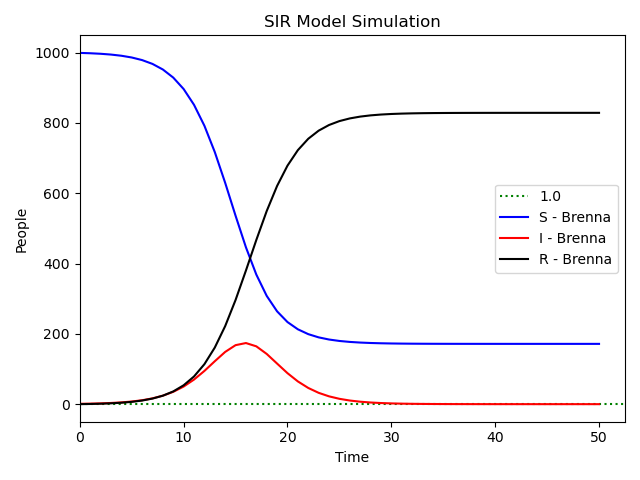
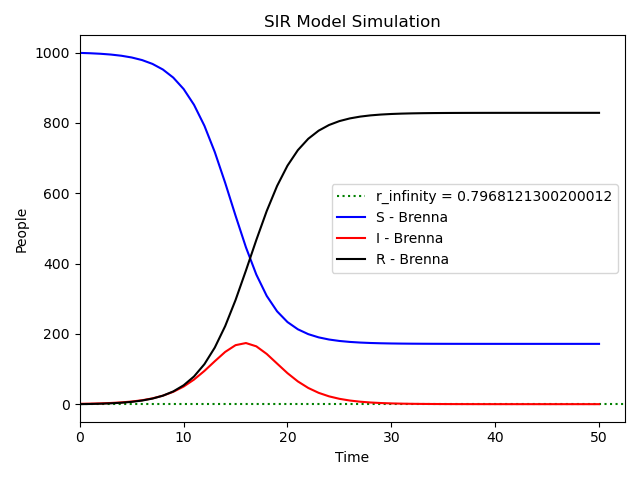
hw1 updates forgot to push

Changed region(s): [[0.5312, 0.375, 0.9688, 0.5625], [0.7812, 0.5312, 0.8125, 0.5625]]

diff --git a/hw1/q4/plot_stability.py b/hw1/q4/plot_stability.py
@@ -1,9 +1,9 @@
 import sys
-import stability
 import argparse
 import matplotlib
 import matplotlib.pyplot as plt
 matplotlib.use('Agg')
+from stability import forward_euler_solver
 
 
 def main():
@@ -34,9 +34,9 @@ def main():
                         required=True)  # Adds argument for gamma value.
     
     parser.add_argument('--N',
-                    type=int,
-                    help='N value',
-                    required=True)  # Adds argument for gamma value.
+                        type=float,
+                        help='N value',
+                        required=True)  # Adds argument for gamma value.
 
     parser.add_argument('--output_file',
                         type=str,
@@ -50,38 +50,40 @@ def main():
     epsilon = 1/args.N
     S = args.N - epsilon
     
-    stable_data = stability.forward_euler_solver(S, args.I, args.stable_R, args.gamma, args.N)
-    unstable_data = stability.forward_euler_solver(S, args.I, args.unstable_R, args.gamma, args.N)
+    stable_data = forward_euler_solver(S, args.I, args.stable_R, args.gamma, args.N)
+    unstable_data = forward_euler_solver(S, args.I, args.unstable_R, args.gamma, args.N)
     
-    stable_s = stable_data[0]
-    stable_i = stable_data[1]
-    stable_r = stable_data[2]
-    time = stable_data[3]
-    
-    unstable_s = unstable_data[0]
-    unstable_i = unstable_data[1]
-    unstable_r = unstable_data[2]
+    stable_s, stable_i, stable_r, time = stable_data
+    unstable_s, unstable_i, unstable_r, _ = unstable_data 
     
     
-    stable_labels = ['S - stable', 'I - stable', 'R - stable',]
-    stable_colors = ['blue', 'red', 'black']
+#     stable_labels = ['S - stable', 'I - stable', 'R - stable',]
+#     stable_colors = ['blue', 'red', 'black']
     
-    unstable_labels = ['S - unstable', 'I - unstable', 'R - unstable' ]
-    unstable_colors = ['green','yellow','pink']
+#     unstable_labels = ['S - unstable', 'I - unstable', 'R - unstable' ]
+#     unstable_colors = ['green','yellow','pink']
         
-    fig, ax = plt.subplots()
+    plt.figure(figsize =(10,6))
 
-    for i in range(3): # iterates through rante
-        ax.plot(time, stable_data[i], label=stable_labels[i], color=stable_colors[i]) # plots varying parameters
-        ax.plot(time, unstable_data[i], label=unstable_labels[i], color=unstable_colors[i])
+#     for i in range(3): # iterates through rante
+#         ax.plot(time, stable_data[i], label=stable_labels[i], color=stable_colors[i]) # plots varying parameters
+#         ax.plot(time, unstable_data[i], label=unstable_labels[i], color=unstable_colors[i])
         
-    ax.set_title('SIR Model Simulation')
-    ax.set_xlabel('Time')
-    ax.set_ylabel('People')
-    ax.set_xlim(left=0)
+    plt.plot(time, stable_s, color = 'red', label = 'S stable equilibrium', linestyle ='dotted')
+    plt.plot(time, stable_i, color= 'blue',label = 'I stable equilibrium', linestyle ='dotted')
+    plt.plot(time, stable_r, color = 'black', label = 'R stable equilibrium', linestyle ='dotted')
     
-    ax.legend()
-    plt.tight_layout()
+    plt.plot(time, unstable_s, color = 'yellow', label = 'S unstable equilibrium', linestyle ='dashed')
+    plt.plot(time, unstable_i, color= 'pink', label = 'I unstable equilibrium', linestyle ='dashed')
+    plt.plot(time, unstable_r, color = 'green', label = 'R unstable equilibrium', linestyle ='dashed')
+    
+    plt.title('SIR Model Simulation')
+    plt.xlabel('Time')
+    plt.ylabel('People')
+    # plt.set_xlim(left=0)
+    
+    plt.legend()
+    # plt.tight_layout()
 
     plt.savefig(args.output_file)
 

diff --git a/hw1/q4/stability.py b/hw1/q4/stability.py
@@ -12,30 +12,38 @@ t_n = t_n-1 + delta_ts
 
 def forward_euler_solver(S_0, I_0, R_0, gamma, N,):
     # below sets initial parameters
-    S, I, R = S_0, I_0, R_0
     t_initial = 0
     t_final = 50
     
     # adds initial parameters to lists
-    suceptibles = [S]
-    infected = [I]
-    recovered = [R]
+    suceptibles = [S_0]
+    infected = [I_0]
+    recovered = [R_0]
     time = [t_initial]
+    
+    epsilon = 1/N
     delta_t = 1
     
     for t in range(t_initial, t_final): # iterates through 0-50
-        S_n = delta_t*(-R*S*I/N) # update S
-        I_n = delta_t*((R*S*I/N)-(gamma*I)) # update I
-        R_n = delta_t*(gamma*I) # update R
+        S_0 = N - epsilon
+        dS = ((-R_0*S_0*I_0/N) * delta_t) # update S
+        dI = (((R_0*S_0*I_0/N)-(gamma*I_0)) * delta_t) # update I
+        dR = (gamma*I_0)* delta_t # update R
+        
         # appends to lists
-        suceptibles.append(S_n)
-        infected.append(I_n)
-        recovered.append(R_n)
+        S_0 = dS
+        I_0 = dI
+        R_0 = dR
+        
+        # S, I, R = S_n, I_n, R_n
+        
+        suceptibles.append(S_0)
+        infected.append(I_0)
+        recovered.append(R_0)
         # updates time
         time.append(time[-1] + delta_t)
         
         # updates current SIR values to the new step
-        S, I, R = S_n, I_n, R_n
     # solves for the intersection point for question 3
     print([suceptibles, infected, recovered, time])
     # returns a list of lists

diff --git a/hw1/q4/test_stability.py b/hw1/q4/test_stability.py
@@ -1,0 +1,39 @@
+import numpy as np
+import matplotlib.pyplot as plt
+#problem 4
+def SIR_model(N,S0,I0,R0,gamma,times):
+    S, I, R = S0, I0, R0
+    dt = 1
+    S_list, I_list, R_list = [S], [I], [R]
+    for time in range(1,times+1):
+        dS = ((-R0*S*I/N) * dt)
+        dI = (((R0*S*I/N)-(gamma*I))*dt)
+        dR = ((gamma*I)*dt)
+        S += dS
+        I += dI
+        R += dR
+        S_list.append(S)
+        I_list.append(I)
+        R_list.append(R)
+    return np.array(S_list), np.array(I_list), np.array(R_list)
+N = 10 ** 6
+stable_R0 = 0.9
+unstable_R0 = 1.1
+gamma = 0.5
+I0 = 1
+R0 = 1
+times = 50
+eps = 1/N
+Stable_S, Stable_I, Stable_R = SIR_model(N,N-eps, I0, stable_R0, gamma, times)
+Unstable_S, Unstable_I, Unstable_R = SIR_model(N, N-eps, I0, unstable_R0, gamma, times)
+S0, I0, R0 = SIR_model(N,N-eps,I0,R0,gamma,times)
+plt.figure(figsize = (10,6))
+plt.plot(range(times+1),Stable_I, label = 'I stable equilibrium Sahana', linestyle = 'dotted')
+plt.plot(range(times+1),I0, label = 'I when R0 = 1 Sahana', linestyle = 'solid')
+plt.plot(range(times+1), Unstable_I, label = 'I unstable equilibrium Sahana', linestyle = 'dashed')
+plt.xlabel("Time")
+plt.ylabel("People")
+plt.legend()
+plt.title("SIR Model Stability Sahana")
+
+plt.savefig('stability.png')

diff --git a/hw1/q1/plot.py b/hw1/q1/plot.py
@@ -1,5 +1,6 @@
 import sys
 import sir
+import numpy as np
 import argparse
 import matplotlib
 import matplotlib.pyplot as plt
@@ -49,14 +50,15 @@ def main():
     I = data[1]
     R = data[2]
     time = data[3]
-    r_infinity = data[4]
     
     labels = ['S - Brenna', 'I - Brenna', 'R - Brenna']
     colors = ['blue', 'red', 'black']
         
     fig, ax = plt.subplots()
     if args.r_infinity == True:
-        plt.axhline(y=r_infinity, color='green', linestyle='dotted',label=f'{r_infinity}')
+        R_0 = args.beta/args.gamma
+        r_infinity = fsolve(lambda r: r - (1-np.exp(-R_0*r)),0.5)[0]
+        plt.axhline(y=r_infinity, color='green', linestyle='dotted',label=f'r_infinity = {r_infinity}')
     for i in range(3): # iterates through rante
         ax.plot(time, data[i], label=labels[i], color=colors[i]) # plots varying parameters
 

diff --git a/hw1/q1/sir.py b/hw1/q1/sir.py
@@ -39,10 +39,8 @@ def forward_euler_solver(beta, gamma, N):
         
         # updates current SIR values to the new step
         S, I, R = S_n, I_n, R_n
-    # solves for the intersection point for question 3
-    r_infinity = fsolve(lambda r: r -(1-np.exp(-R*r)),0.5)[0]
-    
+        
     # returns a list of lists
-    return [suceptibles, infected, recovered, time, r_infinity]
+    return [suceptibles, infected, recovered, time]
 
 # print(forward_euler_solver(1.5, 0.5))
